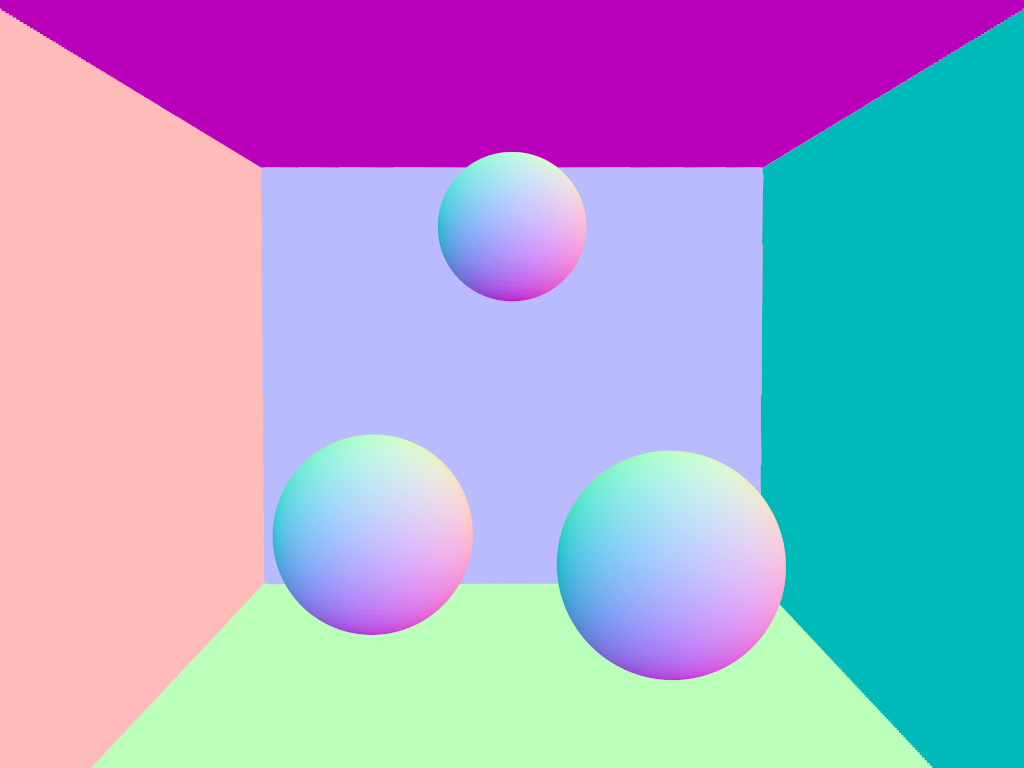
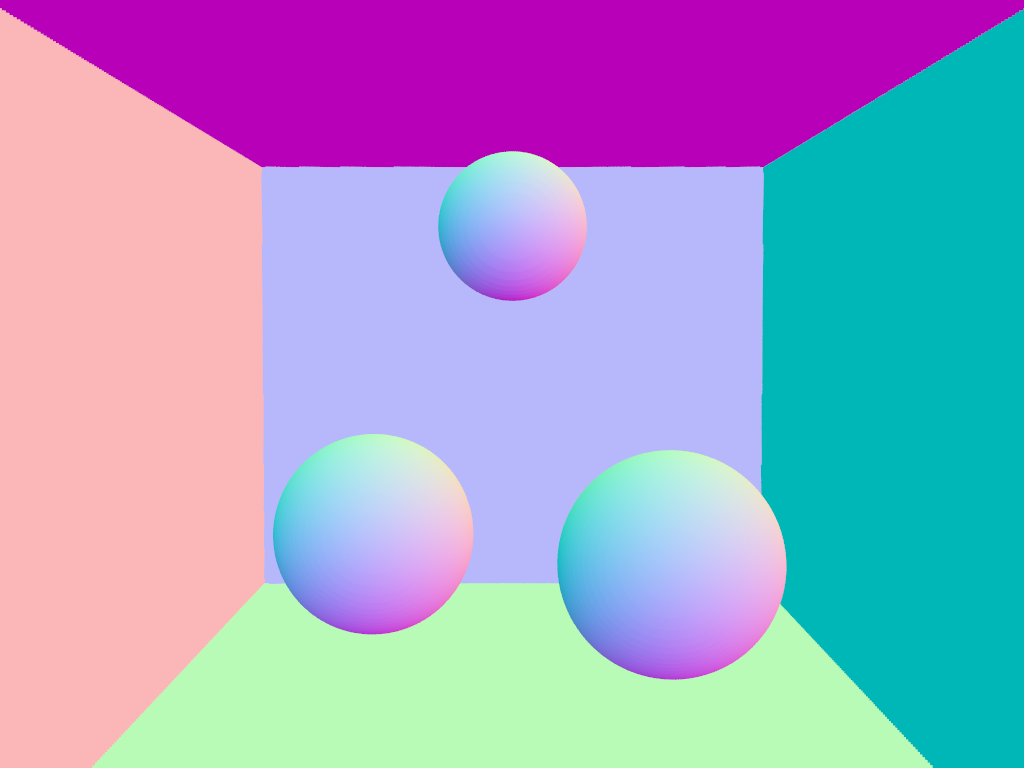
Correcciones tarea 11

diff --git a/doc/tarea11/rt.cpp b/doc/tarea11/rt.cpp
@@ -119,7 +119,6 @@ Sphere spheres[] = {
 };
 const int spheresLength = sizeof(spheres) / sizeof(spheres[0]);
 
-
 // TODO: pasar las siguientes funciones utiles a su propio archivo.
 // limita el valor de x a [0,1]
 inline double
@@ -138,13 +137,13 @@ inline int toDisplayValue(const double x)
     return int(pow(clamp(x), 1.0 / 2.2) * 255 + .5);
 }
 
-// Returna real aleatorio en el rango  [0,1).
+// Retorna real aleatorio en el rango  [0,1).
 inline double random_double()
 {
-    return rand() / (RAND_MAX + 1.0);
+    return drand48();
 }
 
-// Returna real aleatorio en el rango [min,max).
+// Retorna real aleatorio en el rango [min,max).
 inline double random_double(double min, double max)
 {
     return min + (max - min) * random_double();
@@ -219,16 +218,6 @@ int main(int argc, char *argv[])
     // Numero de muestras por pixel.
     const int pixel_samples = 32;
 
-
-    double randomPos[pixel_samples] = {0.0};
-
-    for (int i = 0; i < pixel_samples; i++)
-    {
-        randomPos[i] = random_double();
-    }
-    
-
-
     // fija la posicion de la camara y la dirección en que mira
     Ray camera(Point(0, 11.2, 214), Vector(0, -0.042612, -1).normalize());
 
@@ -253,18 +242,18 @@ int main(int argc, char *argv[])
             {
                 int idx = (h - y - 1) * w + x; // index en 1D para una imagen 2D x,y son invertidos
                 Color pixelValue = Color();    // pixelValue en negro por ahora
-                
+
                 // Vector cameraRayDir = cx * (double(x) / w - .5) + cy * (double(y) / h - .5) + camera.d;
                 // pixelValue = shade(Ray(camera.o, cameraRayDir.normalize()));
 
                 // ciclo de muestreo para antiAlias.
-                for (int i = 0; i < pixel_samples-1; i++)
+                for (int i = 0; i < pixel_samples - 1; i++)
                 {
                     // se le agrega un valor aleatorio a cada pixel en X Y para muestrear mas puntos, no solo el centro del pixel
-                    auto u = cx * (double(x + randomPos[i])  / w - 0.5);
-                    auto v = cy * (double(y + randomPos[i]) / h - 0.5);
+                    auto u = cx * (double(x + random_double(-.5, .5)) / w - 0.5);
+                    auto v = cy * (double(y + random_double(-.5, .5)) / h - 0.5);
 
-                    // se lanza rayo con las variaciones en direccion 
+                    // se lanza rayo con las variaciones en direccion
                     Vector cameraRayDir = u + v + camera.d;
                     // incrementamos valores de ese pixel
                     pixelValue = pixelValue + shade(Ray(camera.o, cameraRayDir.normalize()));
@@ -278,8 +267,6 @@ int main(int argc, char *argv[])
             }
         }
     }
-
- 
 
     fprintf(stderr, "\n");
 
